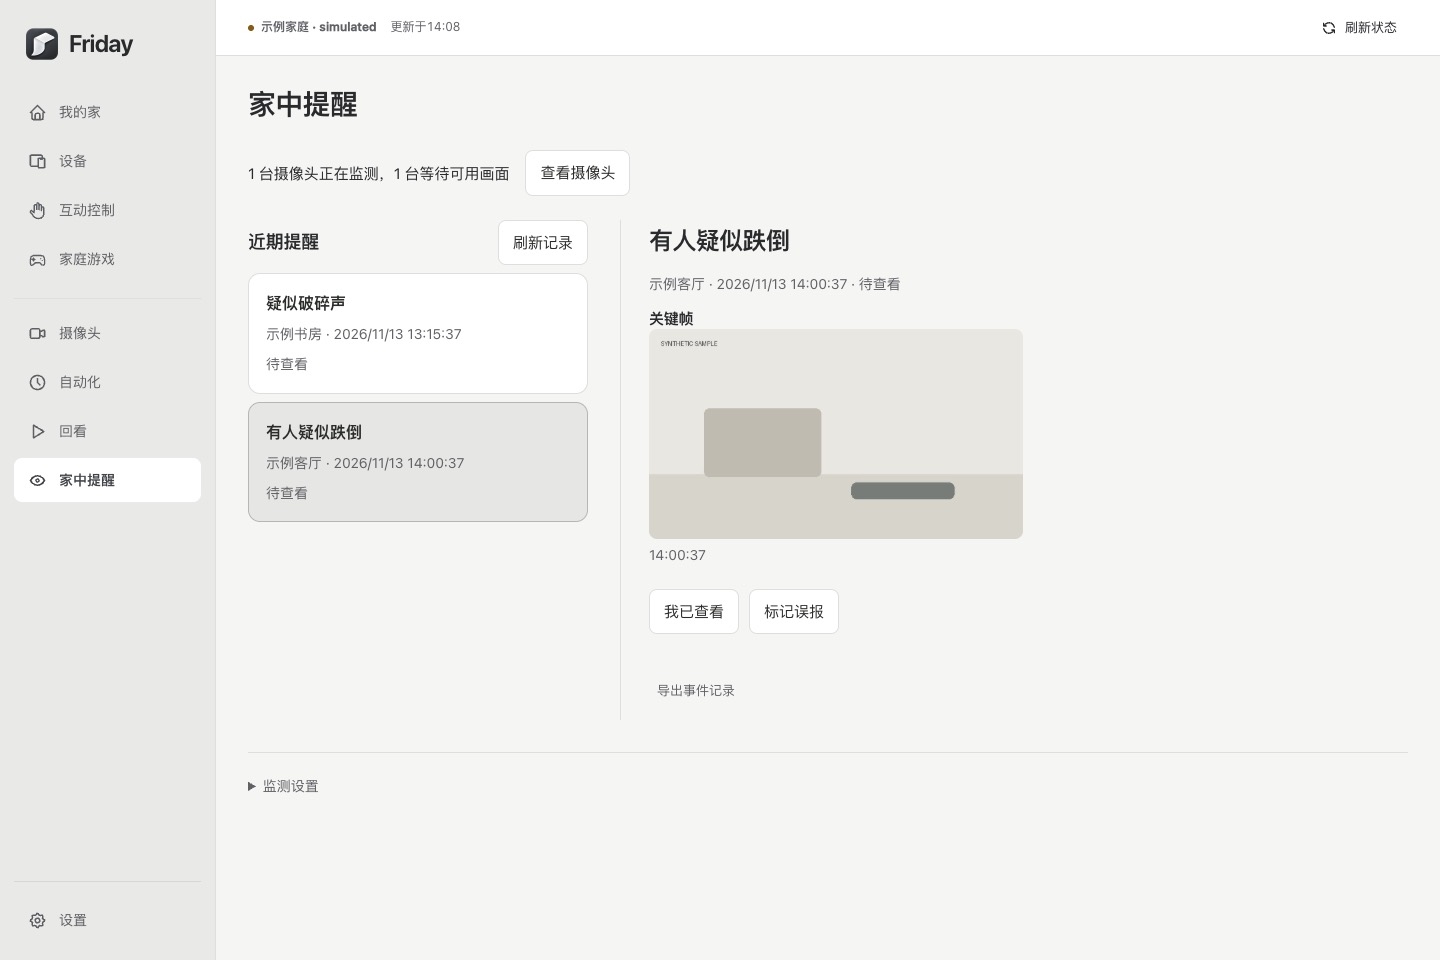
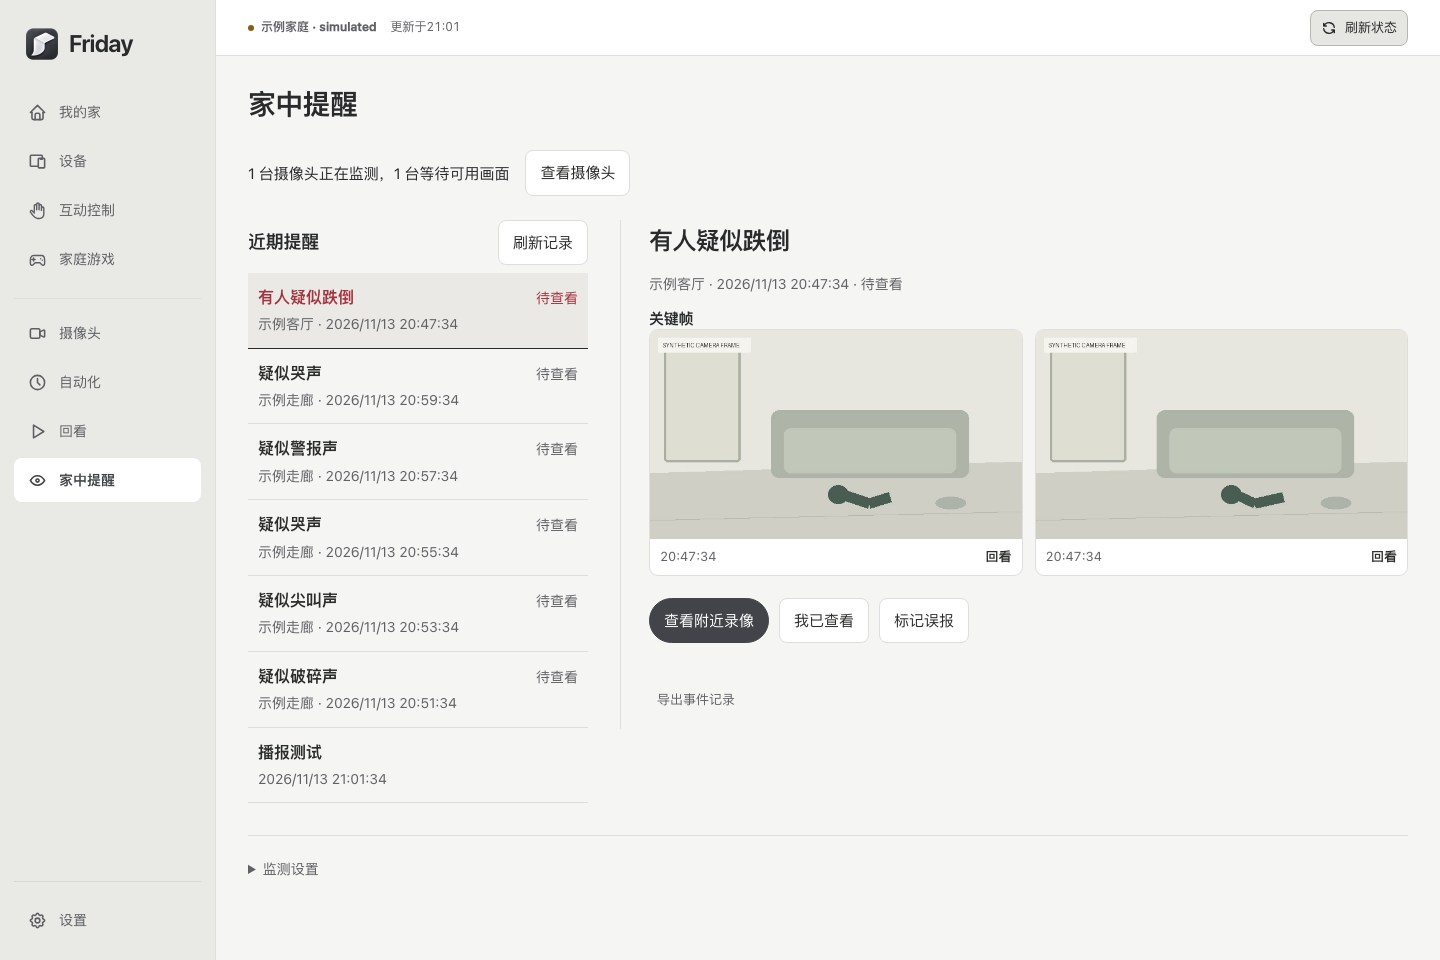
文档：更新疑似跌倒提醒的查看步骤与截图

diff --git a/docs/guides/safety.md b/docs/guides/safety.md
@@ -12,7 +12,7 @@
 
 ## 监测与语音提醒分别设置
 
-打开「家中提醒」，从列表上方查看正在监测的摄像头数量。出现「等待可用画面」时，点「查看摄像头」核对对应镜头。等待期间仍可打开已存提醒和关键帧。
+打开「家中提醒」，从列表上方查看正在监测的摄像头数量。出现「等待可用画面」时，点「查看摄像头」核对对应镜头。等待期间仍可打开已存提醒和关键帧。工具栏的「刷新状态」会重新读取监测和记录，列表的「刷新记录」只更新提醒。
 
 ![合成示例中一台摄像头正在监测，一台等待可用画面，已存提醒仍可打开](../assets/screenshots/friday-safety-monitoring.jpg)
 
@@ -24,9 +24,13 @@
 
 监测开启后，看到有人快速倒卧时，镜头可短暂停留以继续观察。肩部或髋部短暂被挡住时，如果同一人仍可辨认，Friday 会等清楚的画面恢复后继续确认。人出画或被其他人遮挡、无法确认仍是同一人时，Friday 会重新观察。
 
-收到「疑似跌倒」时，打开对应的「家中提醒」，查看关键帧和摄像头，及时核对现场情况。
+「我的家 → 需要关注」会优先显示仍待查看的「疑似跌倒」。点击这条提醒即可查看对应镜头和关键帧。还有更多待查看记录时，点击「全部提醒」进入「家中提醒」。
 
-疑似跌倒详情先显示镜头、时间和关键帧，下方可回看、确认已查看或标记误报。人物身份无法核对时，标题显示「有人疑似跌倒」。
+![合成示例首页将待查看的疑似跌倒排在首条，并提供全部提醒入口](../assets/screenshots/friday-home-priority-alerts.jpg)
+
+疑似跌倒详情先显示镜头、时间和关键帧，下方可回看、选择「我已查看」或标记误报。人物身份无法核对时，标题显示「有人疑似跌倒」。处理后，原记录仍可从「家中提醒」查看。
+
+提醒最多保留 30 天、100 条记录及 64 MiB 关键帧。空间或条数达到上限时，Friday 优先保留待查看的疑似跌倒。
 
 已开启语音提醒时，Friday 在保存后会再次确认同一人仍倒卧，再请求选定的音箱播放。人已经起身、镜头转开或画面中断时，可以在提醒列表查看已经保存的证据。
 

diff --git a/docs/troubleshooting/faq.md b/docs/troubleshooting/faq.md
@@ -160,7 +160,7 @@
 
 ## Q35. 收到疑似跌倒提醒后，在哪里看当时的画面？
 
-打开「家中提醒」，选择对应的疑似跌倒记录，查看来源镜头和已保存的关键帧。显示「等待可用画面」时，点「查看摄像头」核对镜头，仍可继续查看已有记录。详情里的播报状态可用于区分取消、等待确认和音箱已接收。见[查看智能预警与本机画面复核](../guides/safety.md)。
+在「我的家 → 需要关注」点击对应的疑似跌倒提醒，查看来源镜头和已保存的关键帧。选择「我已查看」后，可在「家中提醒」找回记录。显示「等待可用画面」时，仍可查看已有记录，也可点「查看摄像头」核对镜头。详情会显示已请求的播报状态。见[查看智能预警与本机画面复核](../guides/safety.md)。
 
 ## Q36. 滑雪试滑没有认出动作，怎么办？
 
